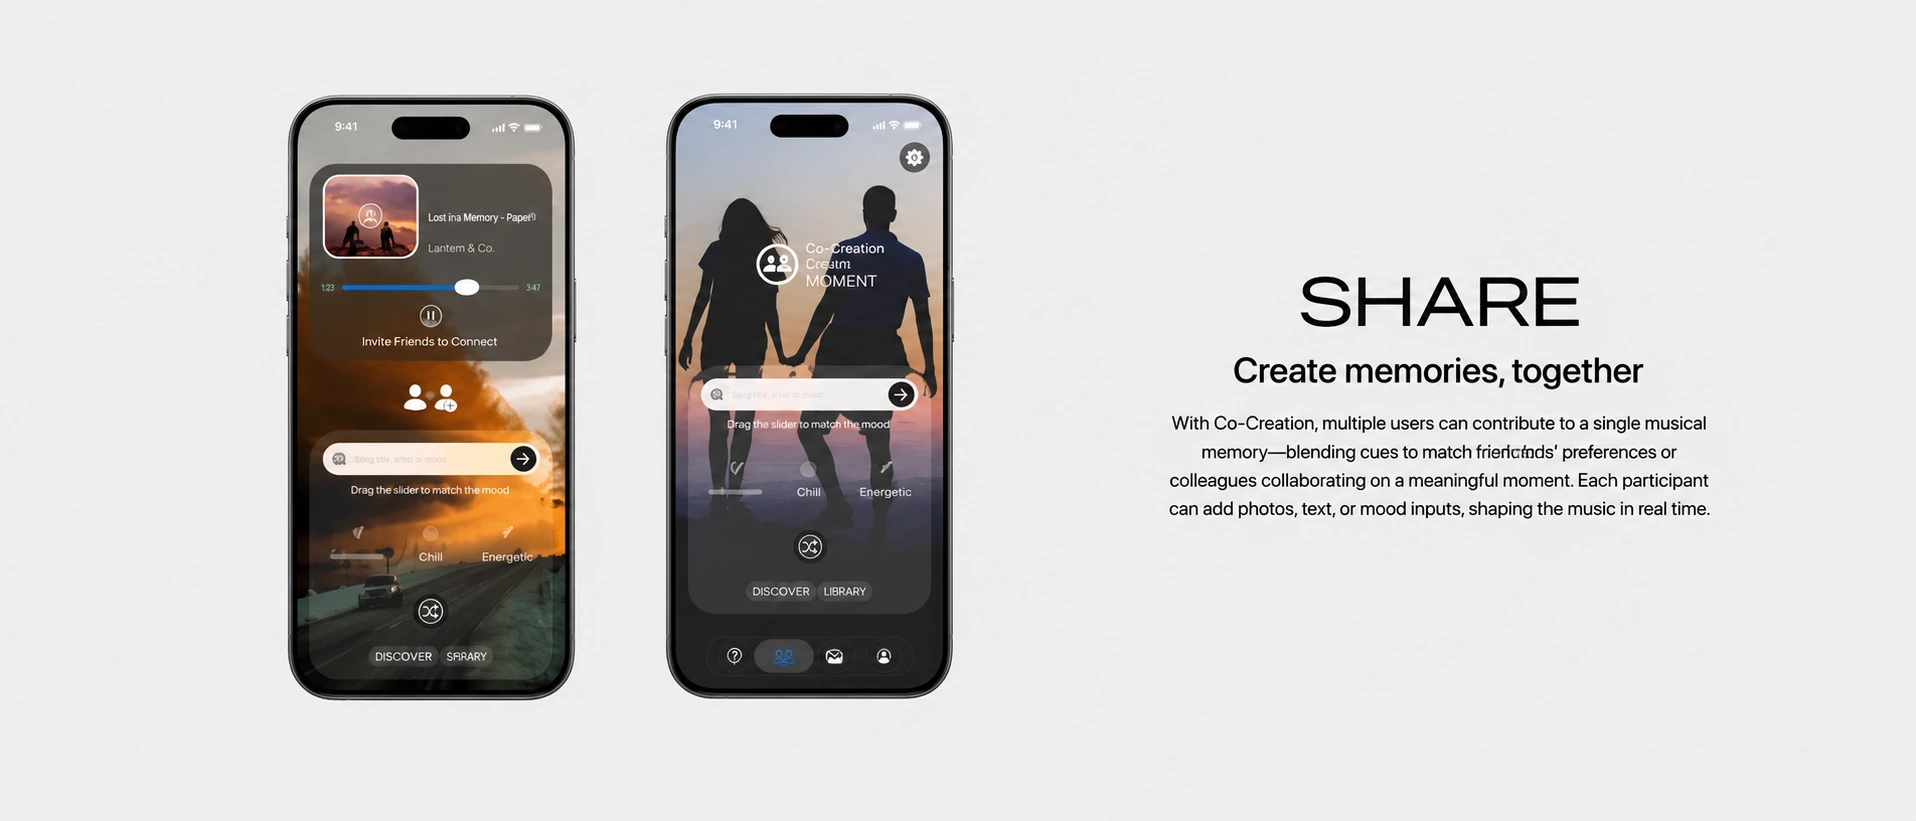
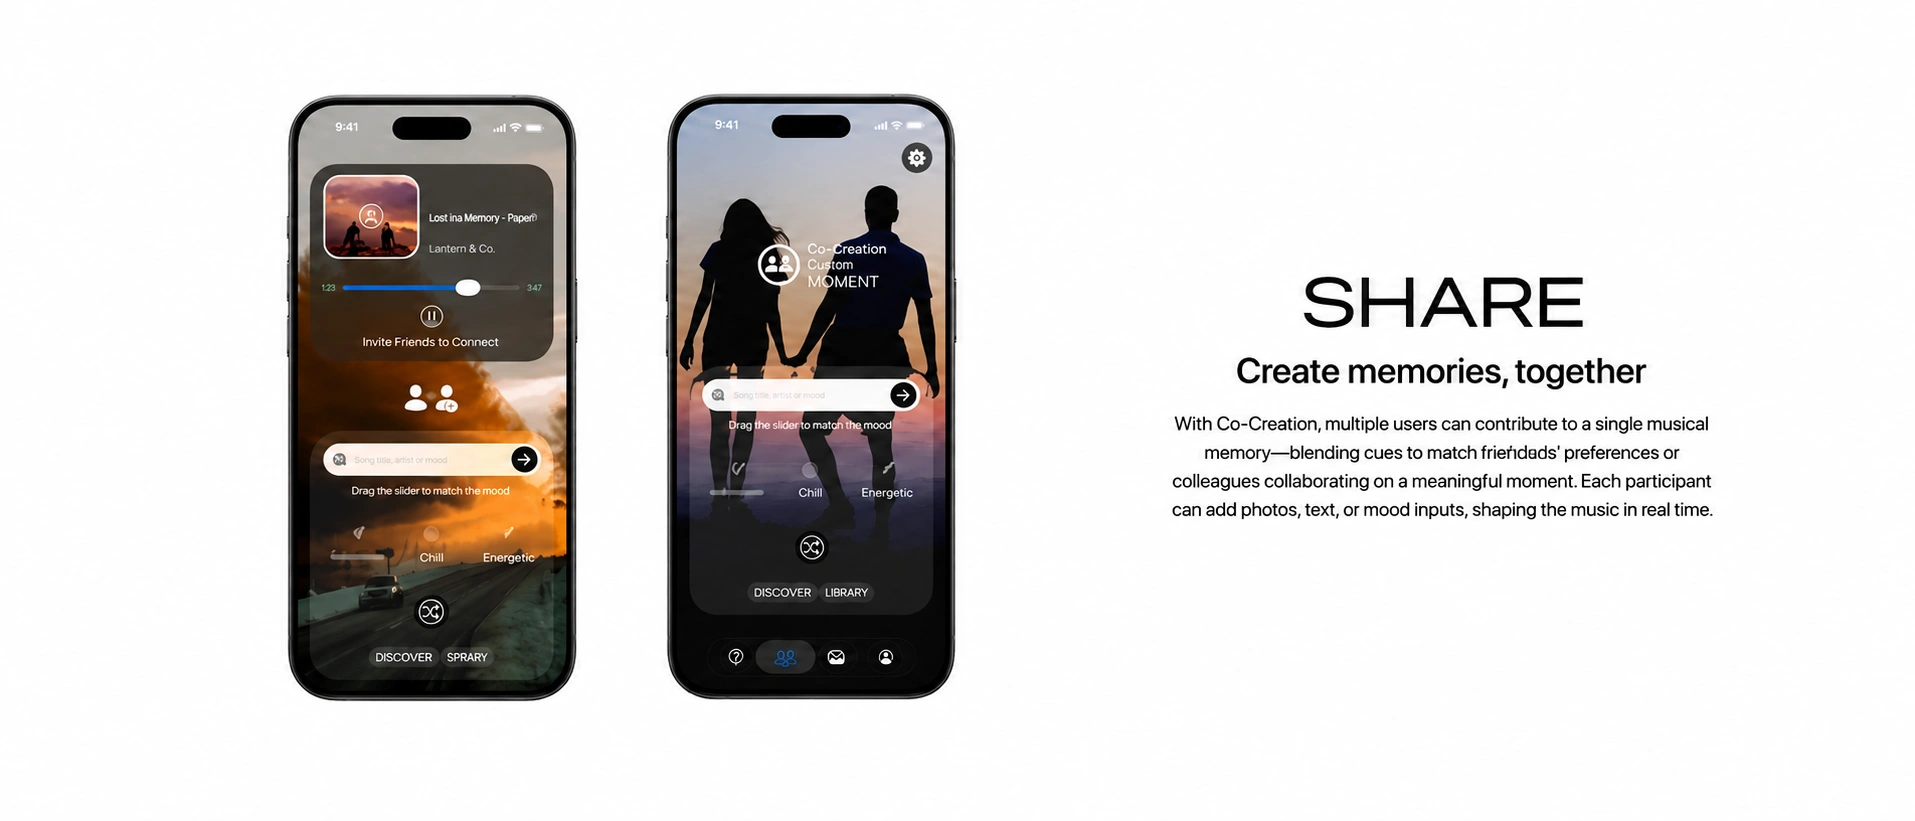
feat: refine Momenta software case

diff --git a/src/main.jsx b/src/main.jsx
@@ -211,14 +211,47 @@ const steps = {
 const momentaSoftwareImage = (index) =>
   `/portfolio/momenta-software/momenta-software-${String(index).padStart(2, '0')}.webp`;
 
-const momentaSoftwareFrameSequence = Array.from({ length: 11 }, (_, index) =>
-  momentaSoftwareImage(index + 11)
-);
+const momentaSoftwareScrollSequence = (slug, count) =>
+  Array.from({ length: count }, (_, index) =>
+    `/portfolio/momenta-software/scroll/${slug}/frame-${String(index + 1).padStart(3, '0')}.webp`
+  );
 
-const momentaSoftwareOpeningSequence = [
-  momentaSoftwareImage(3),
-  momentaSoftwareImage(2),
+const momentaSoftwareInteractionSequences = [
+  { slug: 'photo-0', count: 6, label: { en: 'Photo capture step 0', zh: '拍照交互 0' } },
+  { slug: 'photo-1', count: 18, label: { en: 'Photo capture step 1', zh: '拍照交互 1' } },
+  { slug: 'photo-2', count: 6, label: { en: 'Photo capture step 2', zh: '拍照交互 2' } },
+  { slug: 'photo-3', count: 18, label: { en: 'Photo capture step 3', zh: '拍照交互 3' } },
+  { slug: 'photo-4', count: 36, label: { en: 'Photo capture step 4', zh: '拍照交互 4' } },
+  { slug: 'photo-5', count: 18, label: { en: 'Photo capture step 5', zh: '拍照交互 5' } },
+  { slug: 'photo-6', count: 48, label: { en: 'Photo capture step 6', zh: '拍照交互 6' } },
 ];
+
+const momentaSoftwareSequenceNotes = {
+  'photo-1': {
+    en: 'The capture flow treats place, touch, and timing as signals. The user records a scene; the system turns it into a music task.',
+    zh: '拍照流程把地点、触感和时间变成信号。用户记录一个场景，系统再把它转成音乐任务。',
+  },
+  'photo-6': {
+    en: 'The interface stays quiet while the AI loop becomes visible: input, context reading, generation status, and a result the user can review.',
+    zh: '界面保持克制，但 AI 闭环被看见：输入、情境读取、生成状态，以及可回看结果。',
+  },
+  exploded: {
+    en: 'The exploded view explains the companion object as part of the experience, not just a visual accessory.',
+    zh: '爆炸图说明这个随身物件属于体验的一部分，而不是单纯的视觉配件。',
+    tone: 'dark',
+  },
+};
+
+const momentaSoftwareStaticNotes = {
+  8: {
+    en: 'Implementation evidence connects the product idea back to native iOS structure, prototype states, and testable AI behavior.',
+    zh: '实现证据把产品想法落回 iOS 原生结构、原型状态，以及可以被测试的 AI 行为。',
+  },
+  5: {
+    en: 'The final screen closes the story with a generated track: Momenta is framed as a replayable memory, not a one-off AI output.',
+    zh: '最后一屏回到生成结果：Momenta 被定义为可回放的记忆，而不是一次性的 AI 输出。',
+  },
+};
 
 const momentaSoftwareStaticOrder = [4, 6, 7, 8, 9, 10];
 
@@ -226,25 +259,40 @@ const momentaSoftwareGallery = [
   {
     src: momentaSoftwareImage(1),
     className: 'detail-media-momenta-source-frame',
+    note: {
+      en: 'Momenta begins with a product question: how can AI music respond to a real moment instead of waiting for a blank prompt?',
+      zh: 'Momenta 从一个产品问题开始：AI 音乐如何回应真实情境，而不是等待一段空白提示词？',
+    },
   },
   {
-    src: momentaSoftwareOpeningSequence[0],
-    type: 'frameSequence',
-    effect: 'radialWave',
-    frames: momentaSoftwareOpeningSequence,
-    label: { en: 'App system reveal', zh: 'App \u7cfb\u7edf\u5c55\u5f00' },
-    className: 'detail-media-momenta-source-frame detail-media-frame-sequence-frame detail-media-short-frame-sequence detail-media-radial-wave-sequence',
+    src: momentaSoftwareImage(2),
+    className: 'detail-media-momenta-source-frame',
   },
+  ...momentaSoftwareInteractionSequences.map(({ slug, count, label }) => {
+    const frames = momentaSoftwareScrollSequence(slug, count);
+    return {
+      src: frames[0],
+      type: 'frameSequence',
+      frames,
+      effect: 'frameSnap',
+      label,
+      note: momentaSoftwareSequenceNotes[slug] || null,
+      className: 'detail-media-momenta-source-frame detail-media-frame-sequence-frame detail-media-momenta-scroll-sequence',
+    };
+  }),
   ...momentaSoftwareStaticOrder.map((index) => ({
     src: momentaSoftwareImage(index),
+    note: momentaSoftwareStaticNotes[index] || null,
     className: 'detail-media-momenta-source-frame',
   })),
   {
-    src: momentaSoftwareFrameSequence[0],
+    src: momentaSoftwareScrollSequence('exploded', 18)[0],
     type: 'frameSequence',
-    frames: momentaSoftwareFrameSequence,
-    label: { en: 'Scroll interaction frames', zh: '\u6eda\u52a8\u4ea4\u4e92\u5e27' },
-    className: 'detail-media-momenta-source-frame detail-media-frame-sequence-frame',
+    frames: momentaSoftwareScrollSequence('exploded', 18),
+    effect: 'frameSnap',
+    label: { en: 'Exploded view interaction', zh: '爆炸图交互' },
+    note: momentaSoftwareSequenceNotes.exploded,
+    className: 'detail-media-momenta-source-frame detail-media-frame-sequence-frame detail-media-momenta-scroll-sequence detail-media-momenta-dark-sequence',
   },
   {
     src: momentaSoftwareImage(22),
@@ -256,6 +304,7 @@ const momentaSoftwareGallery = [
   },
   {
     src: momentaSoftwareImage(5),
+    note: momentaSoftwareStaticNotes[5],
     className: 'detail-media-momenta-source-frame',
   },
 ];
@@ -4513,12 +4562,14 @@ function ScrollFrameSequence({ frames, effect = 'crossfade' }) {
   }
 
   const isRadialWave = effect === 'radialWave' && frameSources.length >= 2;
+  const isFrameSnap = effect === 'frameSnap';
   const framePosition = sequenceState.progress * Math.max(0, frameSources.length - 1);
   const lowerFrameIndex = Math.floor(framePosition);
   const upperFrameIndex = Math.min(frameSources.length - 1, lowerFrameIndex + 1);
   const upperFrameOpacity = framePosition - lowerFrameIndex;
   const getFrameOpacity = (index) => {
     if (frameSources.length <= 1) return 1;
+    if (isFrameSnap) return index === sequenceState.activeIndex ? 1 : 0;
     if (index === lowerFrameIndex) return 1 - upperFrameOpacity;
     if (index === upperFrameIndex) return upperFrameOpacity;
     return 0;
@@ -4548,7 +4599,7 @@ function ScrollFrameSequence({ frames, effect = 'crossfade' }) {
     <div
       ref={rootRef}
       className={`detail-scroll-frame-sequence is-${sequenceState.phase}`}
-      data-sequence-effect={isRadialWave ? 'radial-wave' : 'crossfade'}
+      data-sequence-effect={isRadialWave ? 'radial-wave' : isFrameSnap ? 'frame-snap' : 'crossfade'}
       data-active-frame={sequenceState.activeIndex + 1}
       data-progress={sequenceState.progress.toFixed(4)}
       style={waveStyle}
@@ -4748,7 +4799,9 @@ function ProjectDetail({ lang, project, onBack, onOpenProject, motionEnabled }) 
             const showDefaultFigureLabel = index === 0 && !(project.id === 'momenta' && detailVideo);
             const figureLabel = mediaLabel || (showDefaultFigureLabel ? detailMediaLabel : '');
             const mobileSrc = detailMobileSources[project.id]?.[src];
-            const narrative = mediaNarrative[index];
+            const mediaNote = typeof media === 'string' ? null : media?.note || null;
+            const narrative = project.id === 'momenta' ? mediaNote : mediaNarrative[index];
+            const narrativeTone = typeof narrative === 'object' && narrative?.tone ? narrative.tone : '';
             return (
               <React.Fragment key={`${src}-${index}`}>
                 <figure className={getFigureClass(media)}>
@@ -4769,7 +4822,7 @@ function ProjectDetail({ lang, project, onBack, onOpenProject, motionEnabled }) 
                   ) : null}
                 </figure>
                 {narrative ? (
-                  <div className="detail-media-note">
+                  <div className={`detail-media-note${narrativeTone === 'dark' ? ' detail-media-note-dark' : ''}`}>
                     <p>{t(narrative, lang)}</p>
                   </div>
                 ) : null}

diff --git a/src/styles.css b/src/styles.css
@@ -1772,6 +1772,11 @@ img {
   text-align: center;
 }
 
+.detail-media-note-dark {
+  background: #050505;
+  color: rgba(255, 255, 255, 0.72);
+}
+
 .detail-media-note p {
   max-width: 780px;
   margin: 0;
@@ -1834,8 +1839,8 @@ img {
 .detail-media-grid.detail-media-project-momenta figure.detail-media-frame-sequence-frame:first-child {
   position: relative;
   display: block;
-  height: 260svh;
-  min-height: 1600px;
+  height: calc(min(42.865vw, calc(100svh - var(--header-height, 68px))) + 58svh);
+  min-height: 960px;
   aspect-ratio: auto;
   overflow: visible;
   background: #fff;
@@ -1847,12 +1852,24 @@ img {
   min-height: 980px;
 }
 
+.detail-media-grid.detail-media-project-momenta figure.detail-media-momenta-scroll-sequence,
+.detail-media-grid.detail-media-project-momenta figure.detail-media-momenta-scroll-sequence:first-child {
+  height: calc(min(42.865vw, calc(100svh - var(--header-height, 68px))) + 48svh);
+  min-height: 900px;
+}
+
+.detail-media-grid.detail-media-project-momenta figure.detail-media-momenta-dark-sequence,
+.detail-media-grid.detail-media-project-momenta figure.detail-media-momenta-dark-sequence:first-child,
+.detail-media-grid.detail-media-project-momenta figure.detail-media-momenta-dark-sequence .detail-scroll-frame-sequence {
+  background: #050505;
+}
+
 .detail-scroll-frame-sequence {
   position: absolute;
   top: 0;
   left: 0;
   width: 100vw;
-  height: calc(100svh - var(--header-height, 68px));
+  height: min(42.865vw, calc(100svh - var(--header-height, 68px)));
   overflow: hidden;
   background: #fff;
 }
@@ -1932,14 +1949,20 @@ img {
 
   .detail-media-grid.detail-media-project-momenta figure.detail-media-frame-sequence-frame,
   .detail-media-grid.detail-media-project-momenta figure.detail-media-frame-sequence-frame:first-child {
-    height: 220svh;
-    min-height: 1240px;
+    height: calc(42.865vw + 68svh);
+    min-height: 720px;
   }
 
   .detail-media-grid.detail-media-project-momenta figure.detail-media-short-frame-sequence,
   .detail-media-grid.detail-media-project-momenta figure.detail-media-short-frame-sequence:first-child {
     height: 132svh;
     min-height: 760px;
+  }
+
+  .detail-media-grid.detail-media-project-momenta figure.detail-media-momenta-scroll-sequence,
+  .detail-media-grid.detail-media-project-momenta figure.detail-media-momenta-scroll-sequence:first-child {
+    height: calc(42.865vw + 58svh);
+    min-height: 680px;
   }
 }
 

diff --git a/agent_memory/progress.md b/agent_memory/progress.md
@@ -1,3 +1,13 @@
+# 2026-07-07 Momenta software white-background asset replacement
+- User supplied three corrected pure-white 21:9 Momenta software detail images and asked to replace the existing detail-page versions only.
+- Replaced the existing assets in place, preserving filenames and page order:
+  - `public/portfolio/momenta-software/momenta-software-08.webp` for SHARE / Create memories, together.
+  - `public/portfolio/momenta-software/momenta-software-23.webp` for Purity of Elements / interface principle.
+  - `public/portfolio/momenta-software/momenta-software-05.webp` for the final device-and-phone closing visual.
+- Confirmed the approved green cover remains `public/portfolio/momenta-green-cover.png` and `src/main.jsx` still references that cover only for Momenta.
+- Verification passed: `npm run build`.
+- Status: local replacement complete; not pushed or deployed in this step.
+
 # 2026-07-07 Momenta production redeploy confirmation
 
 - User approved pushing/deploying the current Momenta software detail page after confirming the temporary order labels and resource paths were only QA artifacts, not live site content.
